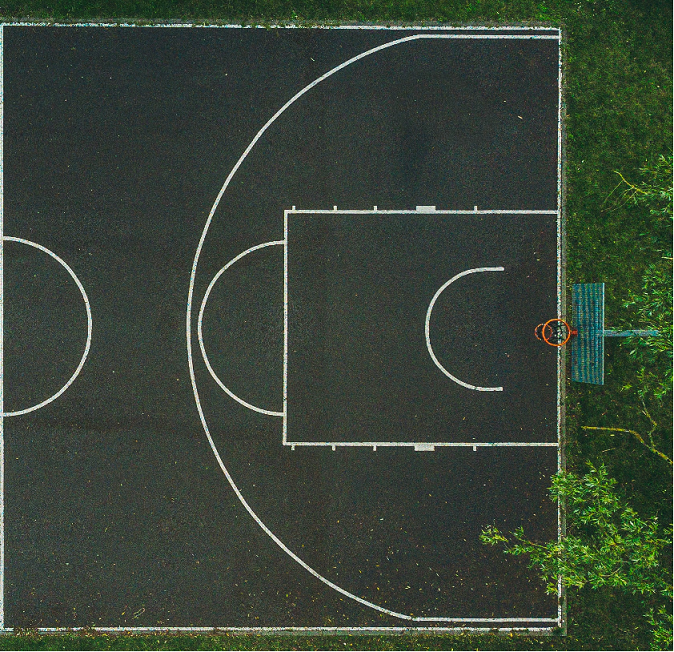
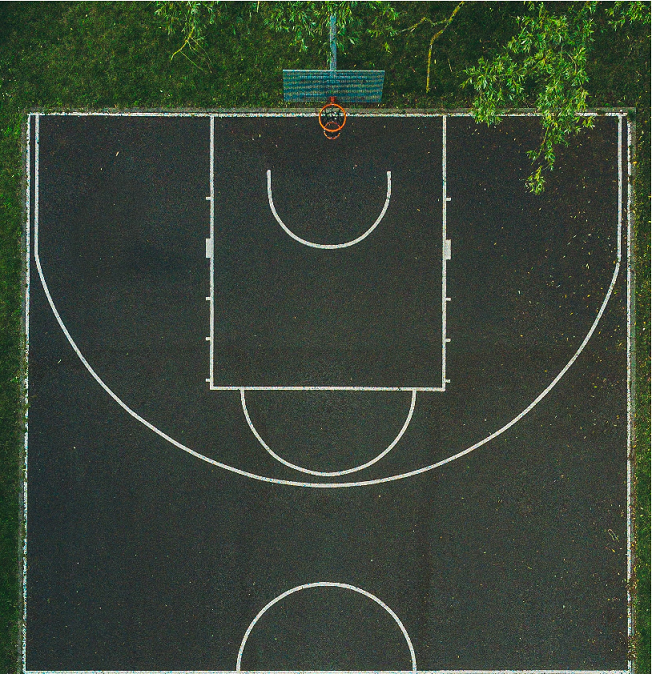
Inverted court direction

diff --git a/server/public/js/game.js b/server/public/js/game.js
@@ -1,8 +1,8 @@
 var config = {
   type: Phaser.AUTO,
   parent: 'phaser-example',
-  width: 674,
-  height: 652,
+  width: 652,
+  height: 674,
   scene: {
     preload: preload,
     create: create,
@@ -31,7 +31,7 @@ function create() {
   this.socket = io();
   this.players = this.add.group();
 
-  this.add.image(337, 326, 'quadra');
+  this.add.image(326,337, 'quadra');
 
   this.topText= this.add.text(10, 5,'',{ font: "12px Arial", fill: "#FFFFFF" });
 
@@ -80,9 +80,6 @@ function create() {
         if(players[id].playerId === self.socket.id) {
           self.topText.setText("Your Name: " + players[id].name);
         }
-
-          //todo: not working
-        /**/
 
       });
     });

diff --git a/server/authoritative_server/js/game.js b/server/authoritative_server/js/game.js
@@ -4,8 +4,8 @@ var attachedId;
 const config = {
   type: Phaser.HEADLESS,
   parent: 'phaser-example',
-  width: 674,
-  height: 652,
+  width: 652,
+  height: 674,
   physics: {
     default: 'arcade',
     arcade: {
